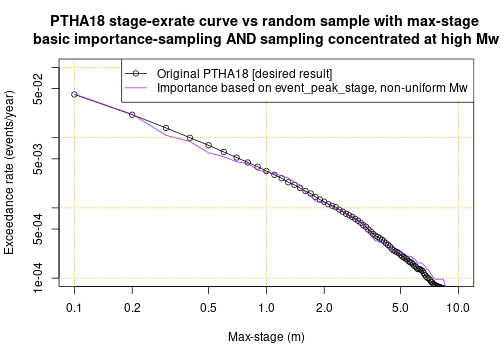
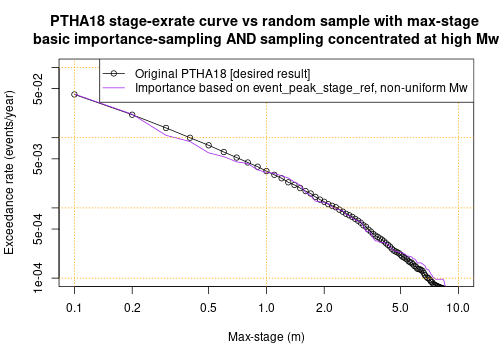
rename variable

Changed region(s): [[0.1786, 0.1833, 0.744, 0.275], [0.2083, 0.275, 0.2381, 0.3056]]

diff --git a/ptha_access/example_event_access_scripts/random_scenarios_non_uniform_and_importance_sampling/random_scenario_sampling.md b/ptha_access/example_event_access_scripts/random_scenarios_non_uniform_and_importance_sampling/random_scenario_sampling.md
@@ -56,11 +56,11 @@ event_peak_stage_at_refpoint = ptha18$get_peak_stage_at_point_for_each_event(
     all_source_names=source_zone)
 
 # Convenient shorthand
-event_peak_stage = event_peak_stage_at_refpoint[[source_zone]]$max_stage
+event_peak_stage_ref = event_peak_stage_at_refpoint[[source_zone]]$max_stage
 ```
 
-When we use importance-sampling techniques below, the `event_peak_stage` variable
-will be used to over-represent scenarios with larger `event_peak_stage` (and thus
+When we use importance-sampling techniques below, the `event_peak_stage_ref` variable
+will be used to over-represent scenarios with larger `event_peak_stage_ref` (and thus
 scenarios with larger waves in the vicinity of the hazard point, near Tongatapu).
 
 # Approach 1: Stratified-sampling by magnitude
@@ -234,11 +234,11 @@ scenarios, consider the tsunami max-stage exceedance-rates at the
 aforementioned point offshore of Tongatapu. (Any other location could similarly be
 chosen). 
 
-In the full PTHA, the `event_peak_stage` exceedance-rate curve at this point is:
+In the full PTHA, the `event_peak_stage_ref` exceedance-rate curve at this point is:
 
 ```r
 stage_seq = seq(0.1, 20, by=0.1)
-stage_exrates_ptha18 = sapply(stage_seq, function(x) sum(event_rates*(event_peak_stage > x)))
+stage_exrates_ptha18 = sapply(stage_seq, function(x) sum(event_rates*(event_peak_stage_ref > x)))
 ```
 
 That can be approximated using only the random sample as follows:
@@ -247,7 +247,7 @@ That can be approximated using only the random sample as follows:
 stage_exrates_rs_stratified = sapply(stage_seq, 
     function(x){
         sum(random_scenarios_stratified$importance_sampling_scenario_rates_basic * 
-            (event_peak_stage[random_scenarios_stratified$inds] > x), na.rm=TRUE)
+            (event_peak_stage_ref[random_scenarios_stratified$inds] > x), na.rm=TRUE)
     })
 ```
 
@@ -279,7 +279,7 @@ random_scenarios_stratified_many = ptha18$randomly_sample_scenarios_by_Mw_and_ra
 stage_exrates_rs_stratified_many = sapply(stage_seq, 
     function(x){
         sum(random_scenarios_stratified_many$importance_sampling_scenario_rates_basic * 
-            (event_peak_stage[random_scenarios_stratified_many$inds] > x), na.rm=TRUE)
+            (event_peak_stage_ref[random_scenarios_stratified_many$inds] > x), na.rm=TRUE)
     })
 ```
 
@@ -302,10 +302,10 @@ long as sufficiently many scenarios are sampled, it will also be accurate. That
 is the motivation for Monte-Carlo approaches. 
 
 Finally, it is worth noting that the stratified random sample defined above has
-many scenario with low `event_peak_stage` values:
+many scenario with low `event_peak_stage_ref` values:
 
 ```r
-quantile(event_peak_stage[random_scenarios_stratified$inds], seq(0, 1, len=5), na.rm=TRUE)
+quantile(event_peak_stage_ref[random_scenarios_stratified$inds], seq(0, 1, len=5), na.rm=TRUE)
 ```
 
 ```
@@ -349,22 +349,22 @@ Here the sampling algorithm is:
 
 The examples below set:
 ```r
-event_importance_weighted_sampling_probs = (event_rate * event_peak_stage) # Importance sampling
+event_importance_weighted_sampling_probs = (event_rate * event_peak_stage_ref) # Importance sampling
 ```
-where the `event_peak_stage` is the tsunami maxima at our site offshore of Tongatapu.
+where the `event_peak_stage_ref` is the tsunami maxima at our site offshore of Tongatapu.
 Compared to regular stratified-sampling this approach over-represents scenarios
-with high `event_peak_stage`. Note regular stratified-sampling would be
+with high `event_peak_stage_ref`. Note regular stratified-sampling would be
 equivalent to:
 ```r
 event_importance_weighted_sampling_probs = event_rate # Regular stratified sampling 
 ```
 
 The stratified/importance-sampling approach is useful for studying tsunami hazards near to the site from which
-`event_peak_stage` was extracted (e.g. near Tongatapu in this case). 
+`event_peak_stage_ref` was extracted (e.g. near Tongatapu in this case). 
 
 The `event_importance_weighted_sampling_probs` definition used here for
 stratified/importance-sampling would not be a good choice for studying the
-hazard far from the site at which `event_peak_stage` was extracted (e.g. in New
+hazard far from the site at which `event_peak_stage_ref` was extracted (e.g. in New
 Zealand, or Australia). In those case a different location should be used to
 specify `event_peak-stage`.
 
@@ -385,7 +385,7 @@ sampling.
 random_scenarios_stage_weighted = ptha18$randomly_sample_scenarios_by_Mw_and_rate(
     event_rates=event_rates,
     event_Mw=event_Mw,
-    event_importance_weighted_sampling_probs = (event_rates * event_peak_stage),
+    event_importance_weighted_sampling_probs = (event_rates * event_peak_stage_ref),
     samples_per_Mw=function(Mw){ 12*(Mw < 9.65) }
     )
 
@@ -393,7 +393,7 @@ random_scenarios_stage_weighted = ptha18$randomly_sample_scenarios_by_Mw_and_rat
 stage_exrates_rs_stage_weighted = sapply(stage_seq, 
     function(x){
         sum(random_scenarios_stage_weighted$importance_sampling_scenario_rates_basic * 
-            (event_peak_stage[random_scenarios_stage_weighted$inds] > x), na.rm=TRUE)
+            (event_peak_stage_ref[random_scenarios_stage_weighted$inds] > x), na.rm=TRUE)
     })
 ```
 
@@ -408,14 +408,14 @@ stratified/importance-sampling better represents scenarios with high max-stage
 values at our Tongatapu site. 
 
 ```r
-quantile(event_peak_stage[random_scenarios_stage_weighted$inds], seq(0, 1, len=5), na.rm=TRUE)
+quantile(event_peak_stage_ref[random_scenarios_stage_weighted$inds], seq(0, 1, len=5), na.rm=TRUE)
 ```
 
 ```
 ##           0%          25%          50%          75%         100% 
 ##  0.002298993  0.112416586  0.581845820  2.162981093 17.066255569
 ```
-This is because of how `event_peak_stage` was included in the definition of the
+This is because of how `event_peak_stage_ref` was included in the definition of the
 `event_importance_weighted_sampling_probs`.
 
 
@@ -452,7 +452,7 @@ TOTAL_SAMPLES = sum(12*(unique_Mws < 9.65))
 # stage_threshold = 2 -- assumes stratified-sampling (because we don't specify
 # event_importance_weighted_sampling_probs)
 non_uniform_samples_2 = ptha18$get_optimal_number_of_samples_per_Mw(
-    event_Mw, event_rates, event_peak_stage, stage_threshold=2, 
+    event_Mw, event_rates, event_peak_stage_ref, stage_threshold=2, 
     total_samples=TOTAL_SAMPLES)
 
 # Look at the data structure
@@ -502,7 +502,7 @@ Below we do the same calculation at a stage-threshold of 5m
 # stage_threshold = 5 -- assumes stratified-sampling (because we don't specify
 # event_importance_weighted_sampling_probs)
 non_uniform_samples_5 = ptha18$get_optimal_number_of_samples_per_Mw(
-    event_Mw, event_rates, event_peak_stage, stage_threshold=5, 
+    event_Mw, event_rates, event_peak_stage_ref, stage_threshold=5, 
     total_samples=TOTAL_SAMPLES)
 ```
 
@@ -554,7 +554,7 @@ random_scenarios_mw_weighted = ptha18$randomly_sample_scenarios_by_Mw_and_rate(
 stage_exrates_rs_mw_weighted = sapply(stage_seq, 
     function(x){
         sum(random_scenarios_mw_weighted$importance_sampling_scenario_rates_basic * 
-            (event_peak_stage[random_scenarios_mw_weighted$inds] > x), na.rm=TRUE)
+            (event_peak_stage_ref[random_scenarios_mw_weighted$inds] > x), na.rm=TRUE)
     })
 ```
 
@@ -571,7 +571,7 @@ can see that the use of non-uniform sampling is leading to slightly better repre
 of large tsunamis (although to a lesser extent than stratified/importance-sampling).
 
 ```r
-quantile(event_peak_stage[random_scenarios_mw_weighted$inds], seq(0, 1, len=5), na.rm=TRUE)
+quantile(event_peak_stage_ref[random_scenarios_mw_weighted$inds], seq(0, 1, len=5), na.rm=TRUE)
 ```
 
 ```
@@ -593,14 +593,14 @@ TOTAL_SAMPLES = sum(12*(unique_Mws < 9.65)) # Number of samples used
 
 # stage_threshold = 2
 non_uniform_samples_IS_2 = ptha18$get_optimal_number_of_samples_per_Mw(
-    event_Mw, event_rates, event_peak_stage, stage_threshold=2, 
-    event_importance_weighted_sampling_probs = (event_rates*event_peak_stage), # Importance sampling
+    event_Mw, event_rates, event_peak_stage_ref, stage_threshold=2, 
+    event_importance_weighted_sampling_probs = (event_rates*event_peak_stage_ref), # Importance sampling
     total_samples=TOTAL_SAMPLES)
 
 # stage_threshold = 5
 non_uniform_samples_IS_5 = ptha18$get_optimal_number_of_samples_per_Mw(
-    event_Mw, event_rates, event_peak_stage, stage_threshold=5, 
-    event_importance_weighted_sampling_probs = (event_rates*event_peak_stage), # Importance sampling
+    event_Mw, event_rates, event_peak_stage_ref, stage_threshold=5, 
+    event_importance_weighted_sampling_probs = (event_rates*event_peak_stage_ref), # Importance sampling
     total_samples=TOTAL_SAMPLES)
 ```
 
@@ -629,7 +629,7 @@ Now we generate the random scenarios.
 random_scenarios_stage_mw_weighted = ptha18$randomly_sample_scenarios_by_Mw_and_rate(
     event_rates=event_rates,
     event_Mw=event_Mw,
-    event_importance_weighted_sampling_probs = (event_rates * event_peak_stage),
+    event_importance_weighted_sampling_probs = (event_rates * event_peak_stage_ref),
     samples_per_Mw=approxfun(unique_Mws, chosen_sampling_effort_IS, method='constant')
     )
 
@@ -637,7 +637,7 @@ random_scenarios_stage_mw_weighted = ptha18$randomly_sample_scenarios_by_Mw_and_
 stage_exrates_rs_stage_mw_weighted = sapply(stage_seq, 
     function(x){
         sum(random_scenarios_stage_mw_weighted$importance_sampling_scenario_rates_basic * 
-            (event_peak_stage[random_scenarios_stage_mw_weighted$inds] > x), na.rm=TRUE)
+            (event_peak_stage_ref[random_scenarios_stage_mw_weighted$inds] > x), na.rm=TRUE)
     })
 ```
 
@@ -649,12 +649,12 @@ unimportant to the hazard).
 
 ![plot of chunk ptha18_tonga_point_plot5](figure/ptha18_tonga_point_plot5-1.png)
 
-The distribution of `event_peak_stage` values in the random sample is similar to the other case
+The distribution of `event_peak_stage_ref` values in the random sample is similar to the other case
 that used importance-sampling. Compared to the samples that did not use importance-sampling,
 there is much better representation of large tsunamis.
 
 ```r
-quantile(event_peak_stage[random_scenarios_stage_mw_weighted$inds], seq(0, 1, len=5), na.rm=TRUE)
+quantile(event_peak_stage_ref[random_scenarios_stage_mw_weighted$inds], seq(0, 1, len=5), na.rm=TRUE)
 ```
 
 ```
@@ -676,60 +676,6 @@ more scenarios. For each technique, if we increase the sampling effort by a
 factor `X` without changing anything else, then on average the error will reduce
 inversely with the square-root of `X`. 
 
-Tthe sampling effort used herein will be too small for many applications. It
+The sampling effort used herein will be too small for many applications. It
 was chosen to make the errors more obvious.
 
-<!---
-
-## Summary of non-uniform sampling strategies.
-
-Although non-uniform sampling of magnitude-bins can be useful, in our
-experience the improvements tend to be modest, a (compared with other techniques shown below).
-
-Because there is more sampling at higher magnitudes, the techniques sample larger max-stage
-scenarios more often, as compared with the previous approach. However the
-effect is not particularly strong -- many scenarios with small `event_peak_stage` values are sampled, 
-although in hazard applications these scenarios are not so likely to be of interest.
-
-```r
-# Ad-hoc choice of non-uniform sampling
-quantile(event_peak_stage[random_scenarios_mw_weighted1$inds], seq(0, 1, len=5), na.rm=TRUE)
-```
-
-```
-## Error in quantile(event_peak_stage[random_scenarios_mw_weighted1$inds], : object 'random_scenarios_mw_weighted1' not found
-```
-
-```r
-# Semi-optimal choice of non-uniform sampling
-quantile(event_peak_stage[random_scenarios_mw_weighted2$inds], seq(0, 1, len=5), na.rm=TRUE)
-```
-
-```
-##         0%        25%        50%        75%       100% 
-##  0.0014247  0.1407757  0.4558249  1.1527460 15.9368391
-```
-The reason we sample many small max-stage scenarios is that the
-`kermadectonga2` source-zone is very large, but the particular site of interest
-(offshore of Tongatapu) is mainly affected by a small region on the source-zone. 
-
-If we are mostly interested in larger waves, then this seems like an
-inefficient sampling approach for our site.
-
-Much greater improvements can be obtained using the importance-sampling
-technique outlined below.
-
-### Summary of importance-sampling
-
-Using importance sampling it becomes much easier to well represent scenarios
-that have large waves near a site of interest. In practice we find the improvements
-can be very substantial compared with stratified-sampling
-
-Users should beware that importance sampling can backfire if the choice of
-`event_importance_weighted_sampling_probs` is poor. We do not have a foolproof
-method to set it, but expect the method here will work well in many cases.
-Users can check for any problems by studying the performance of their choice
-under repeated sampling (at PTHA18 points). A poor choice will lead to erratic
-behaviour, as compared to the simpler approaches. 
-
--->
